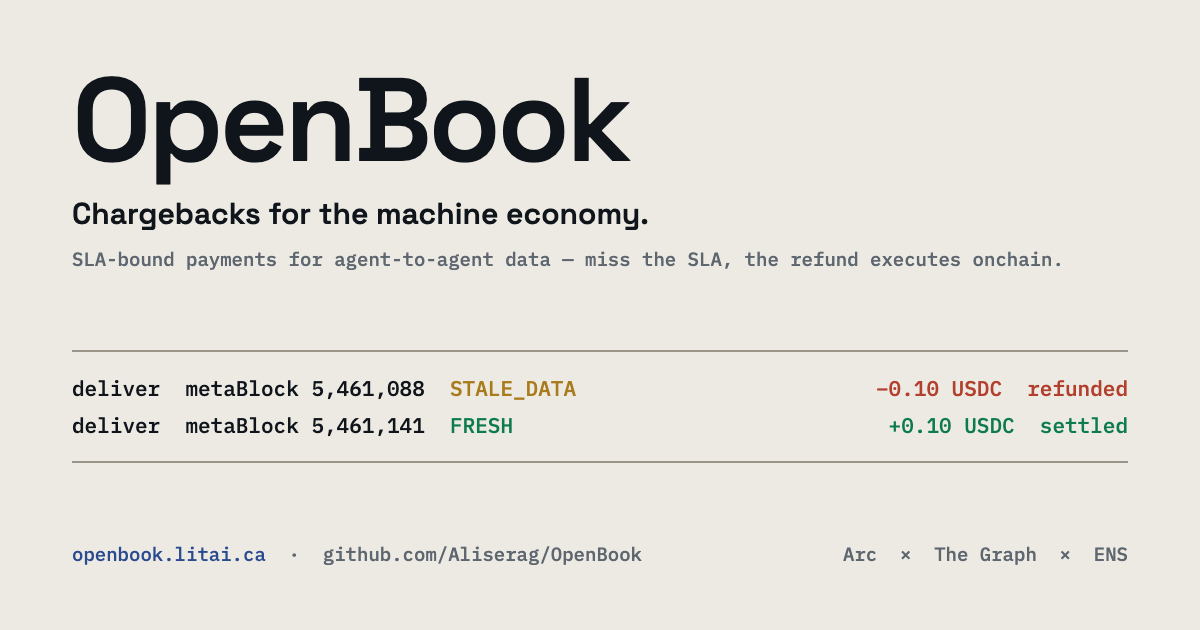
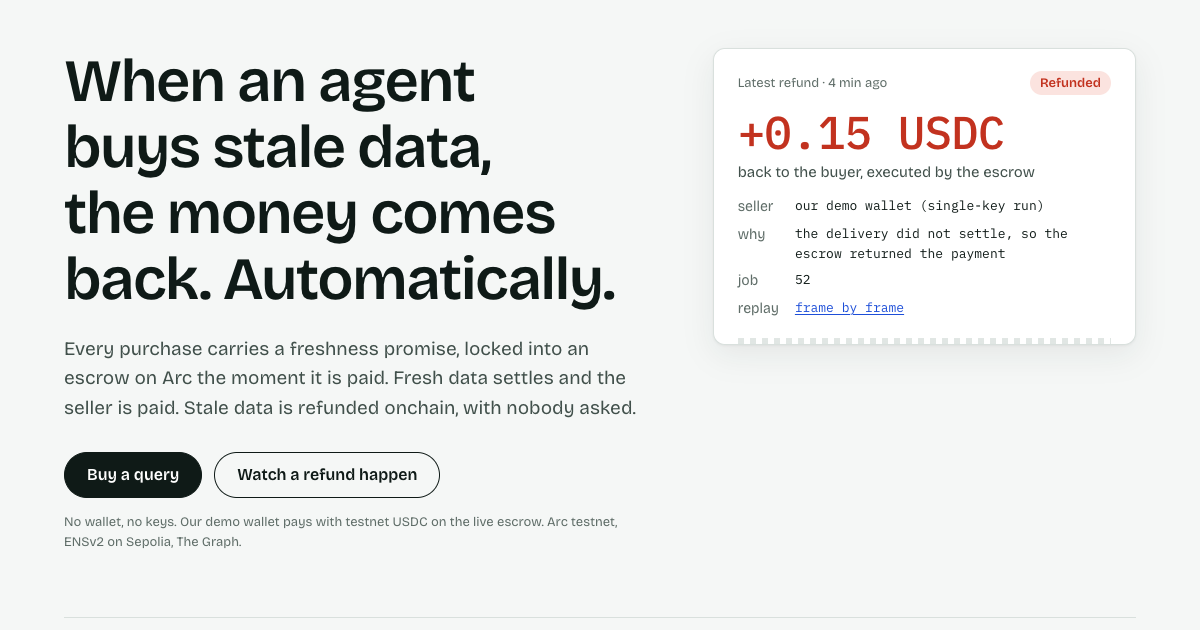
docs+app: README counts and copy follow the page; journey walkthrough rewritten; ENS svc.pnl record on v0.0.6 (onchain tx 0xabda6d76); unused screenshots removed; OG image from the new hero; refund wording knows whether a delivery arrived

diff --git a/app/src/ui/ReceiptCard.tsx b/app/src/ui/ReceiptCard.tsx
@@ -5,12 +5,11 @@ import { datasetTitle, priceLabel, relativeTime } from "../copy/plain";
 import { explorerUrl, truncateHash } from "../format";
 import { Badge } from "./Badge";
 
-export function refundWhy(reason: string | undefined): string {
+export function refundWhy(reason: string | undefined, delivered = true): string {
   if (reason === "STALE_DATA") return "the delivery missed the freshness floor";
   if (reason === "INVALID_HASH") return "the delivery did not match its proof";
-  if (reason === "client-refund") return "the delivery did not settle, so the escrow returned the payment";
-  if (reason) return reason.replace(/_/g, " ").toLowerCase();
-  return "the delivery did not settle, so the escrow returned the payment";
+  if (delivered) return "the delivery did not clear the freshness check, so the escrow returned the payment";
+  return "no valid delivery arrived before the deadline, so the escrow returned the payment";
 }
 
 export function ReceiptCard({
@@ -51,7 +50,7 @@ export function ReceiptCard({
         <dt>{row.datasetId ? "dataset" : "seller"}</dt>
         <dd>{row.datasetId ? datasetTitle(row.datasetId) : (row.sellerName ?? (row.seller ? truncateHash(row.seller) : "onchain data query"))}</dd>
         <dt>why</dt>
-        <dd>{refundWhy(row.refundReason)}</dd>
+        <dd>{refundWhy(row.refundReason, row.delivered)}</dd>
         <dt>job</dt>
         <dd>{row.jobId}</dd>
         {row.txHash && (

diff --git a/app/src/data/feed.ts b/app/src/data/feed.ts
@@ -42,6 +42,8 @@ export interface BoardRow {
   seller: `0x${string}` | null;
   /** ENS name of the seller when the address is a listed seller's operator */
   sellerName?: string;
+  /** a deliverable was submitted onchain (so a refund means a failed check, not a no-show) */
+  delivered: boolean;
 }
 
 export function latestRefund(jobs: JobView[]): JobView | null {
@@ -95,6 +97,7 @@ export function boardRows(
       refundReason: j.refundReason,
       seller: j.seller,
       sellerName: sellerNames[j.seller.toLowerCase()],
+      delivered: j.metaBlock !== undefined,
     });
   }
   for (const r of runs) {
@@ -114,6 +117,7 @@ export function boardRows(
       confirming: true,
       refundReason: r.refundReason,
       seller: null,
+      delivered: true,
     });
   }
   return [...byId.values()]

diff --git a/app/src/data/feed.test.ts b/app/src/data/feed.test.ts
@@ -57,6 +57,12 @@ describe("feed derivations", () => {
     expect(rows[1]!.confirming).toBe(false);
     expect(rows[1]!.datasetId).toBe("x");
     expect(rows[2]!.refundReason).toBe("STALE_DATA");
+    expect(rows[2]!.delivered).toBe(false);
+    expect(rows[0]!.delivered).toBe(true);
+  });
+  test("boardRows marks delivered when the job carries a metaBlock", () => {
+    const jobs = [job({ jobId: 6n, state: "refunded", metaBlock: 123 })];
+    expect(boardRows(jobs, [], 5)[0]!.delivered).toBe(true);
   });
   test("boardRows names sellers by operator address", () => {
     const jobs = [job({ jobId: 7n, seller: "0xAbC" as `0x${string}`, state: "settled" })];

diff --git a/docs/journey-walkthrough.md b/docs/journey-walkthrough.md
@@ -1,62 +1,75 @@
-# Journey Walkthrough — OpenBook (keyless + funded states)
+# Journey walkthrough: OpenBook, the live page
 
-Manually driven against the live app (vite dev, http://127.0.0.1:5173) after the UX review
-loop (6 passes → SATISFIED). Every journey is keyed to observable evidence.
+Driven against the deployed page (https://openbook.litai.ca) on 2026-09-12, in headless
+Chrome and in a real browser. Every journey is keyed to observable evidence: a transaction
+hash, a subgraph row, or a measured value. The scripted half of this is
+`scripts/app-audit.mjs` (20 assertions, all passing on the live domain at submission).
 
-## J1 — Zero-context judge (keyless first load) ✅
-- Masthead: brand `▤ OB`, "OpenBook — THE AGENT'S SETTLEMENT LEDGER", tagline with SLA
-  tooltip, Connect wallet ghost button, chain badges (arc · 5042002 / ensv2 · sepolia /
-  the graph · gateway / openbook.eth).
-- Cards in order with live state chips: 1 See what's for sale — **failed** (red; records
-  absent on openbook.eth — correct, no hardcoded values); 2 Get the price — waiting;
-  3 Watch data arrive — **needs setup** (blue; Graph key card with exact 60s steps);
-  4 Settle — or refund — waiting; The agent's books — needs setup; Daily rows — idle.
-- Every disabled CTA carries a visible caption with the named prerequisite (aria-describedby
-  linked); nothing is a silent dead end.
+## J1: zero-context judge, cold load (no wallet, no keys)
 
-## J2 — ENSv2 storefront (Sepolia) ✅ (fails honestly)
-- Records resolve via viem ≥2.35 against ENSv2 Sepolia; when absent the hard-fail notice
-  names exactly the missing keys (by-name matching — regression-tested) and the setup card
-  lists `scripts/ens/setup.sh` → reload → step 2 unlocks.
-- After the funded run registers openbook.eth: table fills with live records; step 1 → done.
+- Hero: the headline, one paragraph, two buttons (Buy a query, Watch a refund happen),
+  the latest real refund as a receipt (amount, seller, reason, job id, ArcScan link),
+  three live counters (refunds executed, USDC settled, sellers listed).
+- Data arrives through the same-origin `/api/subgraph` proxy (20 s cache, stale copy on
+  a Studio 429) and from ENSv2 Sepolia and the Arc RPC. Nothing is typed in; a failed
+  source renders its reason in place ("could not be read right now"), never a fake value.
+- Verified at 1280, 390 and 320 wide: no horizontal scroll, headline and primary button
+  inside a 640 px tall phone screen.
 
-## J3 — Dataset select → query sync ✅
-- aave-v3-arbitrum-lending → `{ markets(first: 3) { id } }`; uniswap-v3-arbitrum-dex →
-  `{ pools(first: 3) { id } }`. Both directions verified live.
+## J2: buy a query (the happy path)
 
-## J4 — Connect wallet (no provider) ✅
-- Click "Connect wallet" → zero page errors, state unchanged (graceful wagmi no-op;
-  documented). With a real provider the pay/settle path unlocks.
+- Pick a dataset; the line under it reads the live ENS price and freshness promise
+  ("0.15 USDC per query · fresh within 50 blocks (about 13 seconds) · sold by openbook.eth").
+- Click Buy. Six rows land in about 25 s: price read from ENS, paid into escrow (job id,
+  floor, tx), data delivered (indexed block), freshness checked (attest tx), settled
+  (settle tx), fee split (98% seller, 2% treasury, derived from the receipt).
+- Evidence: job 49 on Aave (settle tx `0xd95df8fa…502706`, split 0.147 / 0.003), job 50
+  on OpenSea (Ethereum chain, 10-minute window), both settled.
 
-## J5 — Buyer flow (quote → pay → deliver → settle) — key-gated, proven at the spine
-- Browser path needs an injected wallet + valid Graph key — not walkable keyless.
-- The onchain spine is proven live separately: ERC-8183 lifecycle GREEN on funded wallets
-  (createJob → setBudget → approve → fund → submit → complete, provider paid) + smoke
-  script 3/3 cycles (complete / reject / expire-refund) without revert.
-- UI steps verified statically + by unit tests (deriveSteps/chipClass/missingHardFailKeys).
+## J3: make it fail (the refund)
 
-## J6 — P&L books ✅ (blocked state)
-- Keyless: "needs setup" + setup card with the exact key steps; statline placeholders; no
-  fake rows. After the key lands: running balance + daily rows from openbook-pnl.
+- Click Make it fail. The data is delivered first, then the job is funded with the floor
+  one block above the delivered block, the hook refuses `complete()` (`SlaNotMet`, shown
+  in the verdict row), and `reject()` refunds the buyer in full. Five rows, about 30 s.
+- The hero receipt switches to this refund ("confirming" until the subgraph indexes it);
+  the board shows the row at the top.
+- Evidence: job 48 (`0x6f35cb69…b731b1`), job 52 (`0xa589ed…1c093e`).
 
-## J7 — The Tape ✅ (idle)
-- Idle: status "idle", one event "tape idle — awaiting settlement activity", no ghost scale.
-- Delivered/settled/refunded/stale states render conditionally (code-verified; the stale
-  path is the deterministic stale-proxy money shot).
+## J4: the market
 
-## J8 — Mobile (390px) ✅
-- Zero horizontal overflow; wallet action topmost (grid areas, DOM-first); cards stack;
-  tooltips viewport-anchored bottom banners (never clipped); 24px touch targets.
+- Two seller cards from live ENS (`openbook.eth`, `alpha.openbook.eth`) with per-dataset
+  prices, the freshness promise, purchases / settled / refunded from the subgraph's
+  provider stats (labeled when served from cache or the build-time snapshot), operator link.
+- The venue line reads `platformFeeBP` and the treasury address from the escrow.
 
-## J9 — Reload stability ✅
-- 3 fresh loads + 2 reloads: identical terminal state, chip stays "failed", no stuck
-  "resolving…", console clean (0 errors/warnings/pageerrors).
+## J5: the books
 
-## J10 — Keyboard-first ✅
-- Tab order: Connect wallet → SLA tip → step cards in order; tooltips open on focus;
-  focus-visible outline; aria-live tape announces settlements; role=status on notices.
+- Four figures (settled, refunded, venue fees, treasury balance), the settlement board
+  (12 latest jobs, seller name or dataset, outcome badge, tx or replay link), the
+  treasury's refusals (`PolicyBlocked` rows with tx links).
+- Session runs appear immediately and lose their "confirming" label once the v0.0.6
+  subgraph indexes them (verified for jobs 48, 49, 50).
 
-## Gated for the funded run (the funded-stack notes)
-- Live Gateway queries + P&L rows: needs the Studio key (the funded-stack notes §4).
-- Pay/settle in browser: needs an injected wallet on Arc testnet (MetaMask add-chain 5042002).
-- ENS records set: needs SEPOLIA_PK + Sepolia ETH + MockUSDC mint (scripts/ens/setup.sh).
+## J6: secondary surfaces
+
+- Replay theater from any board row (`#theater/<jobId>`), the system map (`#map`), and
+  the console (`⌘K`, or the footer link on desktop): `help` lists 18 commands, `quote`
+  renders the ENS price and floor.
+
+## Accessibility and motion (measured)
+
+- Text contrast ≥ 4.5:1 on both grounds after the muted token was darkened (5.0 and 5.4).
+- Every control shows a 2 px focus ring under real Tab key presses; tab order follows
+  reading order.
+- Four transitions and three keyframe animations, one easing family, none on layout
+  properties; `prefers-reduced-motion` disables all of them.
+- No text under 13 px on the landing surfaces.
+
+## Known limits
+
+- Both sellers and every buyer so far are ours; the mechanism is permissionless, the
+  liquidity is not.
+- The demo wallet plays buyer, provider and evaluator in the keyless runs (legal per
+  ERC-8183); rows from those runs are labeled "our demo wallet (single-key run)".
+- The staleness in Make it fail is staged (floor above the delivery); the hook's refusal
+  is real and is the same path a natural miss takes.

diff --git a/README.md b/README.md
@@ -38,8 +38,8 @@ the refund executes onchain, automatically.** Money flows both ways.
 **Watch the money move backwards (one click, no wallet):** a delivery pinned to a stale
 `_meta` block got `REJECT (STALE_DATA)` and the escrow refunded the buyer on its own, 
 [Refunded tx 0x25e7805a…6063f on ArcScan](https://testnet.arcscan.app/tx/0x25e7805ae79fd8320ccbc74d90dead9d87b082fd299ecfe5a5949a968e16063f),
-indexed in the agent's books ([live P&L panel](https://openbook.litai.ca), 
-refunds column, no keys needed; [raw subgraph](https://api.studio.thegraph.com/query/1760032/open-book/v0.0.6)).
+indexed in the agent's books ([the live books](https://openbook.litai.ca/#books), 
+no keys needed; [raw subgraph](https://api.studio.thegraph.com/query/1760032/open-book/v0.0.6)).
 On the marketplace escrow the same mechanic refunded two stale deliveries in full:
 [job 42 (0.15)](https://testnet.arcscan.app/tx/0xcef2e16b6028c650d6a33f9e3838d57f3d99e62963d6c6e3194e71ed19c40ca1)
 and [job 46 (0.12)](https://testnet.arcscan.app/tx/0x85ef3525ea9e57818a6c99f8e858ed36a2994be1d30b8ce02b3d78a76964b9aa) —
@@ -232,9 +232,9 @@ of `openbook.eth` (`"source": "ENS"`), and `get_pnl` returns the P&L rows the
 `open-book` subgraph indexed from the escrow + policy contracts on Arc testnet.
 
 ```bash
-bun test          # 71 unit tests, mock-injected, no keys needed
-cd app && bun run dev   # storefront UI (quote + P&L work keyless;
-                        # VITE_GRAPH_GATEWAY_KEY unlocks the live delivery step)
+bun test          # 364 unit tests across agent, mcp, app and scripts; mock-injected, no keys needed
+cd app && bun run dev   # the product page on localhost:5173 (reads Studio directly; the
+                        # deployed lanes read it through the cached /api/subgraph proxy)
 ```
 
 **Transact as an external buyer (~10 min, testnet money):**
@@ -277,7 +277,7 @@ fresh clone, not inferred from the code.
 | The judge path works with **no keys** | fresh clone → the stdio command above returns a quote (`"source": "ENS"`) and the indexed P&L in under a second |
 | A stale delivery **refunded the buyer onchain, automatically** | the [Refunded tx](https://testnet.arcscan.app/tx/0x25e7805ae79fd8320ccbc74d90dead9d87b082fd299ecfe5a5949a968e16063f) and the `refunds` row in the live P&L |
 | Treasury policy is enforced **onchain** | `PolicyWallet` verified on ArcScan; `PolicyBlocked` rows indexed by the subgraph |
-| Contracts and tests are real | 20 forge tests · 71 unit tests · 3-job CI (badge above) |
+| Contracts and tests are real | 20 forge tests · 364 unit tests · 3-job CI (badge above) · 20-check browser audit (`scripts/app-audit.mjs`) |
 
 **Not proven, stated plainly:**
 

diff --git a/docs/ens-storefront.md b/docs/ens-storefront.md
@@ -69,7 +69,7 @@ machine-readable records.
 | `svc.sla` | `{"maxBlockLag":50,"maxLatencyMs":2000}` | Task 5 freshness gate; **hard-fail when missing** |
 | `svc.payee` | `0x4e83eB15EE973A49E40D9A79aB2cA89a4Eb4894E` (PolicyWallet, live) | Revenue recipient; Task 5/6 payouts; **hard-fail when missing** |
 | `svc.operator` | `0x64A78b6d5e99274d01D1d0A70B180A73AAEb8d21` (live) | Operator / agent address |
-| `svc.pnl` | `https://api.studio.thegraph.com/query/1760032/open-book/version/latest` (live) | Task 4 Studio subgraph endpoint (`get_pnl`, Task 7 dashboard) |
+| `svc.pnl` | `https://api.studio.thegraph.com/query/1760032/open-book/v0.0.6` (live) | Task 4 Studio subgraph endpoint (`get_pnl`, Task 7 dashboard) |
 | `agent-context` | `OpenBook: …ERC-8004 agent 894065 on Arc.` *(ENSIP-26, live)* | Agent self-description for any AI client |
 | `agent-endpoint[mcp]` | `https://github.com/Aliserag/OpenBook/tree/main/mcp` *(live)* | MCP endpoint (`sse`/streamable) |
 | `agent-endpoint[web]` | `https://openbook.litai.ca` *(live)* | Buyer frontend |

diff --git a/mcp/README.md b/mcp/README.md
@@ -101,7 +101,7 @@ attestation signature from the operator key.
                                             // uses the live svc.payee record anyway
   "operatorKey": "OPERATOR_PRIVATE_KEY",    // env var NAME (no secrets in repo)
   "gateway": { "keyEnv": "GRAPH_GATEWAY_KEY", "baseUrl": "https://gateway.thegraph.com" },
-  "pnl": { "endpoint": "https://api.studio.thegraph.com/query/1760032/open-book/version/latest" },
+  "pnl": { "endpoint": "https://api.studio.thegraph.com/query/1760032/open-book/v0.0.6" },
   "datasets": [
     {
       "id": "aave-v3-arbitrum-lending",

diff --git a/docs/architecture.md b/docs/architecture.md
@@ -13,7 +13,7 @@ agent's public P&L.
 flowchart LR
     subgraph BuyerSide["Buyer (agent CLI / human)"]
         BC[agent/buyer-cli.ts<br/>quote → pay → deliver → verify → settle/refund]
-        FE[Frontend app<br/>Vite + wagmi · one ledger route<br/>ENS panel · quote · pay · ruler · P&L]
+        FE[Frontend app · openbook.litai.ca<br/>one page: the latest refund · keyless buy / make-it-fail<br/>market · public books · console]
     end
 
     subgraph ENSv2["ENSv2 · Sepolia (hard-fail gateway)"]
